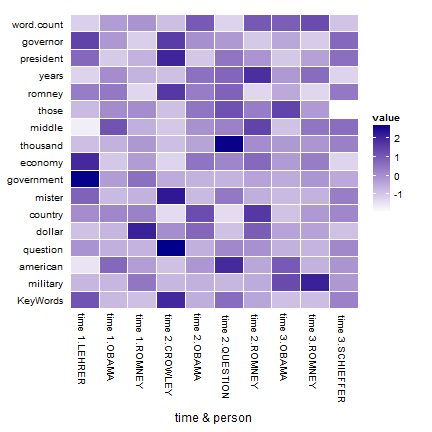
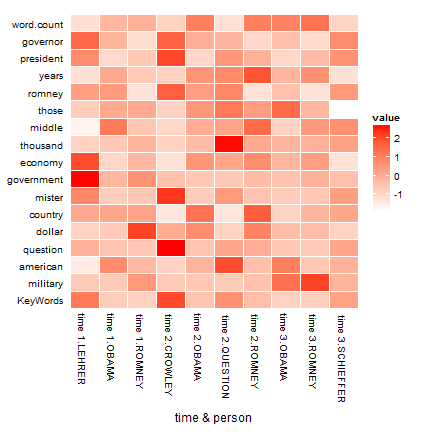
fixed code README

diff --git a/README.md b/README.md
@@ -565,8 +565,8 @@ Event 1: [lines 1-3]
 
 
 ```r
-keyWords <- with(pres_debates2012, kwic(dialogue, list(time, person), high = "red"))
-plot(keyWords[[1]])
+keyWords <- with(pres_debates2012, kwic(dialogue, list(time, person)))
+plot(keyWords[[1]], high = "red")
 ```
 
 ![plot of chunk unnamed-chunk-8](inst/figure/unnamed-chunk-8-1.png) 
